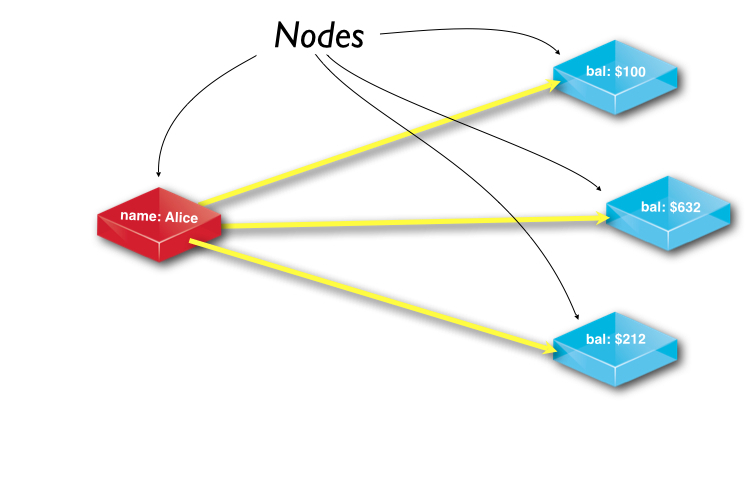
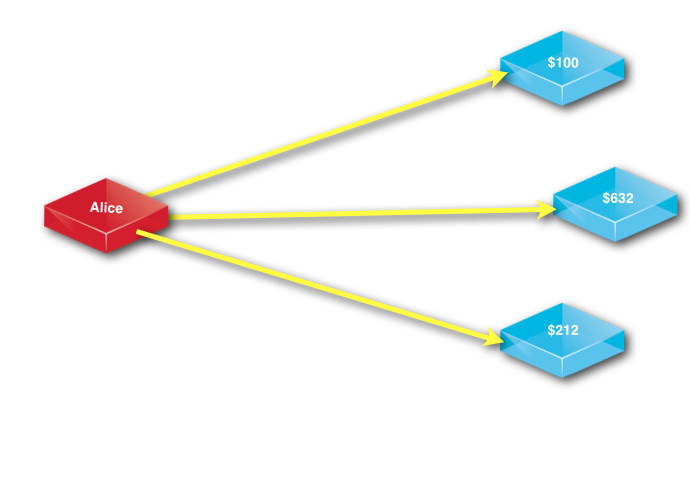
fixing consistent crop of images in graph animations, adidng labels

diff --git a/content/training/intro/classroom/index.html b/content/training/intro/classroom/index.html
@@ -280,11 +280,20 @@ Grab a coffee and get ready to begin!
 
 </section>
 
+<section class="slide" id="_tables">
+<h2>Tables</h2>
+<div class="imageblock">
+<div class="content">
+<img alt="rel graph0" src="../../img/rel_graph0.jpg">
+</div>
+</div>
+</section>
+
 <section class="slide" id="_one_table">
 <h2>One table</h2>
 <div class="imageblock">
 <div class="content">
-<img alt="rel graph1" src="../../img/rel_graph1.png">
+<img alt="rel graph1" src="../../img/rel_graph1.jpg">
 </div>
 </div>
 </section>
@@ -293,7 +302,7 @@ Grab a coffee and get ready to begin!
 <h2>Another one</h2>
 <div class="imageblock">
 <div class="content">
-<img alt="rel graph2" src="../../img/rel_graph2.png">
+<img alt="rel graph2" src="../../img/rel_graph2.jpg">
 </div>
 </div>
 </section>
@@ -302,7 +311,7 @@ Grab a coffee and get ready to begin!
 <h2>A link table</h2>
 <div class="imageblock">
 <div class="content">
-<img alt="rel graph3" src="../../img/rel_graph3.png">
+<img alt="rel graph3" src="../../img/rel_graph3.jpg">
 </div>
 </div>
 </section>
@@ -311,7 +320,7 @@ Grab a coffee and get ready to begin!
 <h2>JOINing them</h2>
 <div class="imageblock">
 <div class="content">
-<img alt="rel graph4" src="../../img/rel_graph4.png">
+<img alt="rel graph4" src="../../img/rel_graph4.jpg">
 </div>
 </div>
 </section>
@@ -320,7 +329,7 @@ Grab a coffee and get ready to begin!
 <h2>This is the data</h2>
 <div class="imageblock">
 <div class="content">
-<img alt="rel graph5" src="../../img/rel_graph5.png">
+<img alt="rel graph5" src="../../img/rel_graph5.jpg">
 </div>
 </div>
 </section>
@@ -334,11 +343,20 @@ Grab a coffee and get ready to begin!
 </div>
 </section>
 
-<section class="slide" id="_nodes_relationships_and">
-<h2>Nodes, Relationships and &#8230;</h2>
+<section class="slide" id="_nodes">
+<h2>Nodes</h2>
 <div class="imageblock">
 <div class="content">
 <img alt="rel graph7" src="../../img/rel_graph7.jpg">
+</div>
+</div>
+</section>
+
+<section class="slide" id="_relationships_and">
+<h2>Relationships and &#8230;</h2>
+<div class="imageblock">
+<div class="content">
+<img alt="rel graph8" src="../../img/rel_graph8.jpg">
 </div>
 </div>
 </section>
@@ -347,7 +365,7 @@ Grab a coffee and get ready to begin!
 <h2>Nodes, Relationships and Labels.</h2>
 <div class="imageblock">
 <div class="content">
-<img alt="rel graph8" src="../../img/rel_graph8.jpg">
+<img alt="rel graph9" src="../../img/rel_graph9.jpg">
 </div>
 </div>
 </section>

diff --git a/crop_keynote_images.py b/crop_keynote_images.py
@@ -1,0 +1,7 @@
+import os
+for name in xrange(21,27):
+	os.system('convert  -crop 700x400+150+100  Neo4j\ 2.0\ Intro\ Training\ Keynote10.0{0}.jpg {0}.jpg'.format(name, name))
+
+for name in xrange(27,35):
+	print name
+	os.system('convert  -crop 690x500+180+50  Neo4j\ 2.0\ Intro\ Training\ Keynote10.0{0}.jpg {0}.jpg'.format(name, name))	
